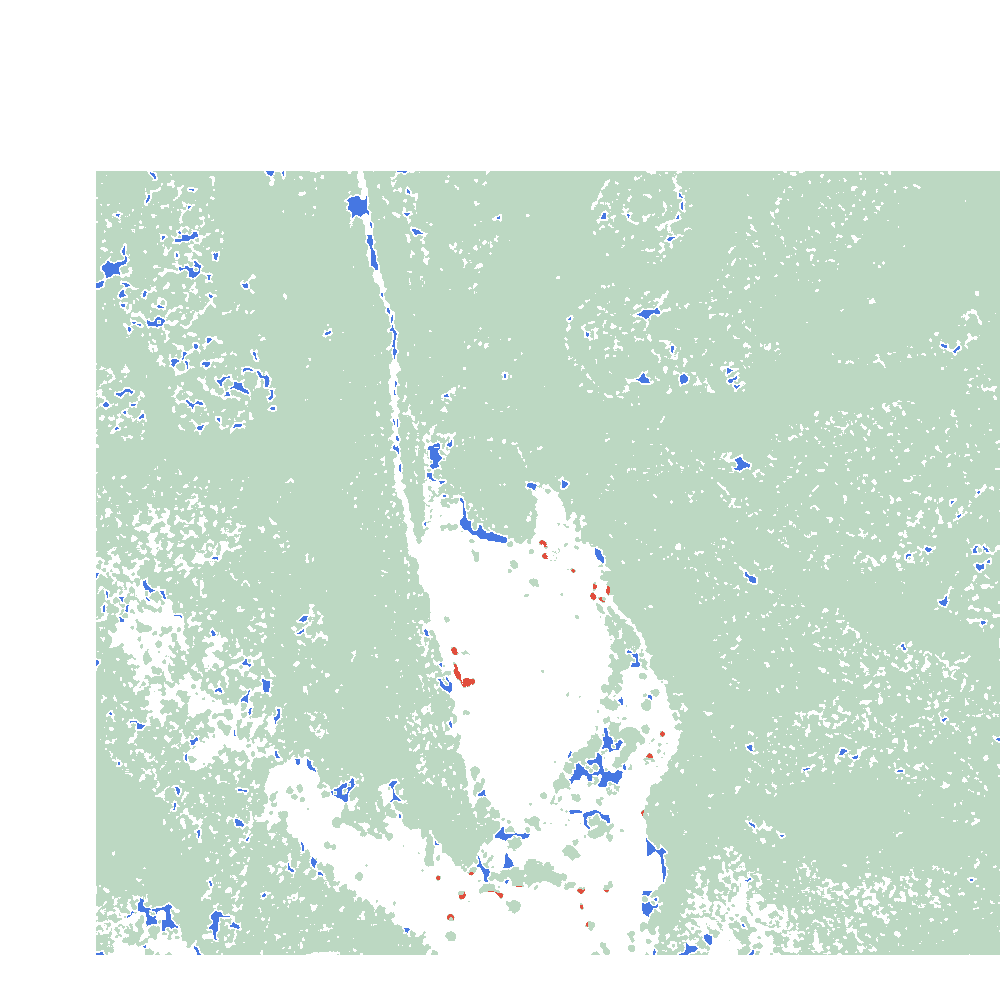
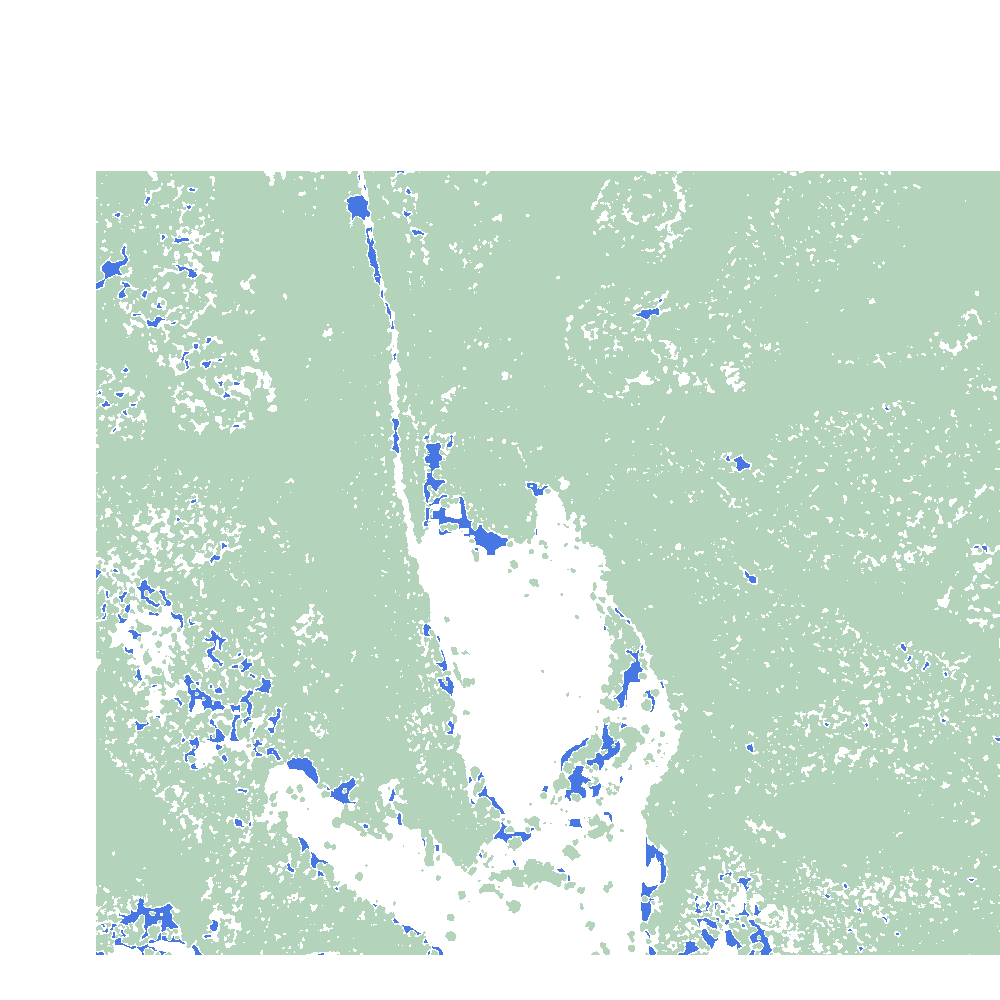
Trial (unpublished): Willow Vale Sentinel-2 wet (14 Apr 2026), dry (31 Aug 2026) and 2018 (17 Mar) layers; tree change from satellite 2018 vs 2026 (no clearing, ~0.7 ha regrowth in the block); roofs out of the canopy
Claude-Session: https://claude.ai/code/session_01QnDMw4PyfKw545DtnAuurF

diff --git a/map/index.html b/map/index.html
@@ -397,7 +397,7 @@ const SITES=[
  {id:'nimbin-group',name:'Firefly Farm',group:'Group 1',area:'Nimbin, NSW · the group plan, house-area sketch and tracks to the upper pads',base:'sites/nimbin/',ready:true,prosKinds:['pond','tank'],cgrid:'NSW LiDAR 2017 (Lismore)'},
  {id:'bellbunya',name:'Bellbunya',group:'Group 2',area:'Belli Park, Qld',ready:true,history:true},
  {id:'bright-tree',name:'Bright Tree',group:'Group 3',area:'Diamond Valley, Qld',base:'',ready:true,canopy:true,history:true,niche:true},
- {id:'willow-vale-team',name:'Willow Vale',group:'Group 4',area:'Bowman, NSW · the group presentation (21 Oct)',base:'sites/willow-vale/',ready:true,cgrid:'NSW LiDAR 2018 (Upper Manning), trimmed to Sentinel-2 31 Aug 2026',s2:'31 Aug 2026',seasonal:[[930,1065,1140,1135]]},
+ {id:'willow-vale-team',name:'Willow Vale',group:'Group 4',area:'Bowman, NSW · the group presentation (21 Oct)',base:'sites/willow-vale/',ready:true,cgrid:'NSW LiDAR 2018 (Upper Manning) plus regrowth to 2026 from Sentinel-2',s2:'31 Aug 2026',s2wet:'14 Apr 2026',s2old:'17 Mar 2018',seasonal:[[930,1065,1140,1135]]},
  {id:'noosa-forest-retreat',name:'Noosa Forest Retreat',group:'PDC host',area:'Kin Kin, Qld',ready:true,history:true},
  {id:'nac',name:'NAC',group:'Small block',area:'North Arm Cove, NSW',ready:true,small:true,aerialDate:'1 Sep 2021, 7 cm'},
  {id:'annwn',name:'Annwn',group:'Small block',area:'Capalaba, Qld · 770 m² suburban block',ready:true,small:true},
@@ -479,8 +479,9 @@ function applySite(){const ms=T&&T.meta&&T.meta.site;
   for(const k in WEEDS){let t=WEEDS[k][1].replace(R3,R3n).replace(LOC,LOCn);if(!SITE.lfw){t=t.replace(' '+LFW,'').replace(LFW+' ','').replace(LFW,'').replace(/^Land for Wildlife[^:]*: ?/,'Common advice: ').replace('Land for Wildlife medium priority.','Environmental weed; remove seedlings.')}WEEDS[k][1]=t||'Environmental weed.'}
   const ch=OVERLAYS[1].items;for(let i=ch.length-1;i>=0;i--)if(ch[i][0].startsWith('change_'))ch.splice(i,1);
   for(const y of (SITE.changeYears||[]).slice().sort()){ch.push(['change_'+y,'Ground change since '+y]);OVNAME['change_'+y]='Ground change since '+y}
-  if(SITEDEF.s2&&!OVERLAYS.some(g=>g.s2)){const d=SITEDEF.s2;OVERLAYS.push({grp:'Satellite · Sentinel-2 '+d,s2:true,items:[['s2_ndvi','Greenness (NDVI)'],['s2_ndmi','Moisture (NDMI)'],['s2_change','Trees: LiDAR 2018 vs '+d]]});
-    Object.assign(OVNAME,{s2_ndvi:'Greenness (NDVI) · '+d,s2_ndmi:'Moisture (NDMI) · '+d,s2_change:'Tree cover change · LiDAR 2018 vs '+d})}}
+  if(SITEDEF.s2&&!OVERLAYS.some(g=>g.s2)){const d=SITEDEF.s2;const wd=SITEDEF.s2wet,od=SITEDEF.s2old;OVERLAYS.push({grp:'Satellite · Sentinel-2',s2:true,items:[['s2_ndvi','Greenness, dry ('+d+')']].concat(wd?[['s2_wet','Greenness, wet ('+wd+')'],['s2_swing','Seasonal swing (wet − dry)']]:[]).concat([['s2_ndmi','Moisture, dry ('+d+')'],['s2_change','Tree change since '+(od?od.slice(-4):'2018')]])});
+    if(wd)Object.assign(OVNAME,{s2_wet:'Greenness (NDVI) · '+wd,s2_swing:'Seasonal swing · '+wd+' vs '+d});
+    Object.assign(OVNAME,{s2_ndvi:'Greenness (NDVI) · '+d,s2_ndmi:'Moisture (NDMI) · '+d,s2_change:'Tree change · '+(od||'2018')+' to '+d})}}
 function siteBanner(){return; // banner removed: the site picker shows which site is open
   if(SITEID==='bright-tree')return;const d=document.createElement('div');d.className='warn';d.style.margin='8px 0 0';d.innerHTML=`You're viewing <b>${esc(SITEDEF.name)}</b>, which has its own drawings. <button class="linkish" id="backBT">Back to Bright Tree (manual)</button>`;$('header.brand').appendChild(d);$('#backBT').onclick=()=>switchSite('bright-tree')}
 function renderSiteSel(){siteBanner();const el=$('#siteSel');if(!el)return;el.innerHTML=SITES.map(x=>`<option value="${x.id}" ${x.id===SITEID?'selected':''} ${x.ready?'':'disabled'}>${esc(x.name)} · ${esc(x.group)}${x.ready?'':' (coming soon)'}</option>`).join('');el.onchange=()=>{const id=el.value;if(id!==SITEID)switchSite(id)}}
@@ -491,7 +492,7 @@ async function boot(){renderSiteSel();
   if(SITEDEF.lot)T.lot=SITEDEF.lot.slice();
   const cy=(T.meta.site?T.meta.site.changeYears:SITE.changeYears)||[];
   try{const hy=await fetch(SB+'hydro.json');HYDRO=hy.ok?await hy.json():null}catch(e){HYDRO=null}
-  if(SITEDEF.s2)imgs.push('s2_ndvi.png','s2_ndmi.png','s2_change.png');
+  if(SITEDEF.s2)imgs.push('s2_ndvi.png','s2_ndmi.png','s2_change.png');if(SITEDEF.s2wet)imgs.push('s2_wet.png','s2_swing.png');
   if(SITEDEF.niche){imgs.push('niche.png');try{NICHE=await (await fetch(SB+'niche.json')).json()}catch(e){NICHE=null}}
   try{const dr=await fetch(SB+'rain_daily.json');DAILY=dr.ok?await dr.json():null}catch(e){DAILY=null}
   try{const sf=await fetch(SB+'silo_full.json');SFULL=sf.ok?await sf.json():null;if(SFULL&&!(SFULL.eto10||[]).some(v=>v>=0))SFULL=null}catch(e){SFULL=null}
@@ -3329,7 +3330,7 @@ function renderLayers(){const el=$('#tab-layers');const m=T.meta;
     legends.light_equinox=`The same estimate for the equinox (March and September), when the sun is higher. About ${Le.ha2h} ha of the lot gets 2 hours or more of sun at ground level, and ${Le.ha4h} ha 4 hours or more. Compare with the winter layer to find spots that stay sunny all year.`}
    if(C0.productivity){const P=C0.productivity;legends.productivity=`Where trees grew faster or slower than is typical for their size between 2008 and 2022 (each tree compared with others that started at the same height). Green: faster than typical, the sign of better soil moisture, depth and nutrients: the places to give fruit trees, the food forest and nursery plantings. Orange: slower (dry ridges, shallow sandy soil, exposure) or lost height (tree fall). Inside the lot about ${P.aboveHa} ha grows clearly faster than typical and ${P.belowHa} ha clearly slower. Typical growth was about 2 m in 14 years. Match with the soil tests before committing.`}
    legends.fuel=`An indicative, relative fuel-structure rating from the 2022 LiDAR: dense near-ground growth, ladder fuels from 2 to 10 m that let fire climb, and canopy cover. Ranked against the whole map window. Inside the lot: ${C0.fuel.vhighHa} ha very high, ${C0.fuel.highHa} ha high, ${C0.fuel.modHa} ha moderate. Not an official fuel hazard assessment; read it with the Fire run layer and your fire plan.`}
-  if(SITEDEF.s2){legends.s2_ndvi='Green and dense (forest, about 0.85–0.95) to dry pasture and bare ground (brown, under 0.45). 10 m pixels: trails and single trees do not show.';legends.s2_ndmi='Leaf and soil moisture: blue is moist (closed forest, damp gullies, soaks), red is dry (sun-baked pasture, bare soil). Compare seasons to find springs.';legends.s2_change='Green: trees in the 2018 LiDAR still there. Red: trees in 2018 that are gone by the satellite date (canopy taken out of the 3D print). Blue: new green since 2018 (regrowth; added to the print as young 5 m canopy).'}
+  if(SITEDEF.s2){legends.s2_ndvi='Green and dense (forest, about 0.85–0.95) to dry pasture and bare ground (brown, under 0.45). 10 m pixels: trails and single trees do not show.';legends.s2_ndmi='Leaf and soil moisture: blue is moist (closed forest, damp gullies, soaks), red is dry (sun-baked pasture, bare soil). Compare seasons to find springs.';legends.s2_change='Green: trees in the 2018 LiDAR. Blue: new tree cover since 2018 (green in both the wet and the dry season of 2026 but not in March 2018); added to the 3D print as young 5 m canopy. No clearing of trees showed up between the 2018 and 2026 images.';legends.s2_wet='Greenness after the wet season: pasture greens up and comes close to the forest, so use the dry-season map to tell them apart.';legends.s2_swing='How much each spot greens up between the dry and wet season. Dark green: steady all year (evergreen forest, damp gullies). Yellow to orange: big swing (pasture, annual grasses, bare patches that green after rain).'}
   for(const y of SITE.changeYears||[])legends['change_'+y]=`Ground that has moved since the ${y} survey, after removing survey-wide offsets: red is lower now (cut, erosion, slips, gully incision), blue is higher (fill, deposition, new pads). Faint scatter under forest is survey noise; treat patches as leads to check on the ground.`+(ch&&ch[y]?` Inside the lot: ${ch[y].lotLossHa} ha lowered and ${ch[y].lotGainHa} ha raised by more than 1 m.`:'');
   const setLeg=()=>{$('#ovLegend').innerHTML=(legends[layers.overlay]||'')+srcNote(layers.overlay);const sw=$('#shWrap');if(layers.overlay==='shadow'){if(!sw.innerHTML){sw.innerHTML=shadowCtl();wireShadow(el)}computeShadow()}else sw.innerHTML='';mapLegend()};setLeg();if(layers.overlay==='shadow')wireShadow(el);
   el.querySelectorAll('#baseSeg button').forEach(b=>b.onclick=()=>{setLayer('base',b.dataset.v);el.querySelectorAll('#baseSeg button').forEach(x=>x.setAttribute('aria-pressed',x===b))});
@@ -3342,7 +3343,7 @@ function renderLayers(){const el=$('#tab-layers');const m=T.meta;
 /* every overlay says where its data comes from (Brett's rule 4) */
 function srcNote(ov){if(!ov||ov==='none')return '';const st=(T&&T.meta&&T.meta.site)||{};const terr=st.source||'LiDAR terrain';let s;
   if(['slope','aspect','cold','fire','sun_winter','sun_equinox','sun_summer','shadow','wet','erosion'].includes(ov))s=`Computed by the map from ${terr}.`+(ov==='wet'||ov==='erosion'?' Flow routing at 2 m (24 Oct 2026).':'');
-  else if(ov.startsWith('s2_'))s=`Sentinel-2 L2A, ${SITEDEF.s2||''} (bands B4, B8, B11 at 10–20 m), via the Copernicus Browser. Contains modified Copernicus Sentinel data (${String(SITEDEF.s2||'').slice(-4)}).`+(ov==='s2_change'?' Compared with the 2018 LiDAR canopy (ELVIS).':'');
+  else if(ov.startsWith('s2_'))s=`Sentinel-2 L2A, ${ov==='s2_wet'?SITEDEF.s2wet:ov==='s2_swing'?SITEDEF.s2wet+' and '+SITEDEF.s2:ov==='s2_change'?SITEDEF.s2old+', '+SITEDEF.s2wet+' and '+SITEDEF.s2:SITEDEF.s2} (bands B4, B8, B11 at 10–20 m), via the Copernicus Browser. Contains modified Copernicus Sentinel data (2018, 2026).`+(ov==='s2_change'?' Tree cover in 2018 from the LiDAR (ELVIS).':'');
   else if(ov.startsWith('change_'))s=`Difference between the ${ov.slice(7)} and ${st.main||'latest'} LiDAR surveys (ELVIS).`;
   else if(['veg','canopy_h','canopy_change','productivity','understorey','fuel','light_winter','light_equinox','niche'].includes(ov))s=`From the ${(st.years||[]).slice().sort().join(', ')} LiDAR point clouds (ELVIS), computed by the map.`;
   else return '';return `<div class="hint" style="margin-top:4px">Source: ${esc(s)}</div>`}
